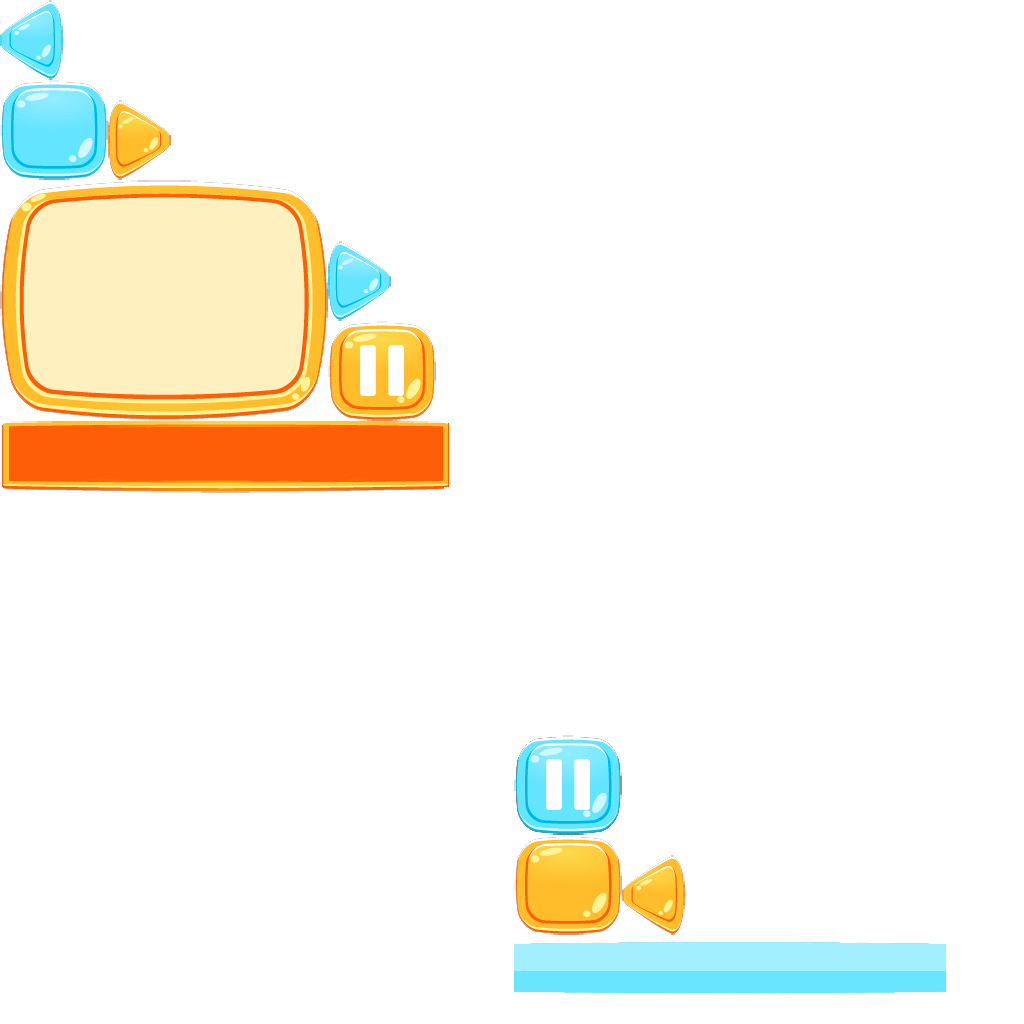
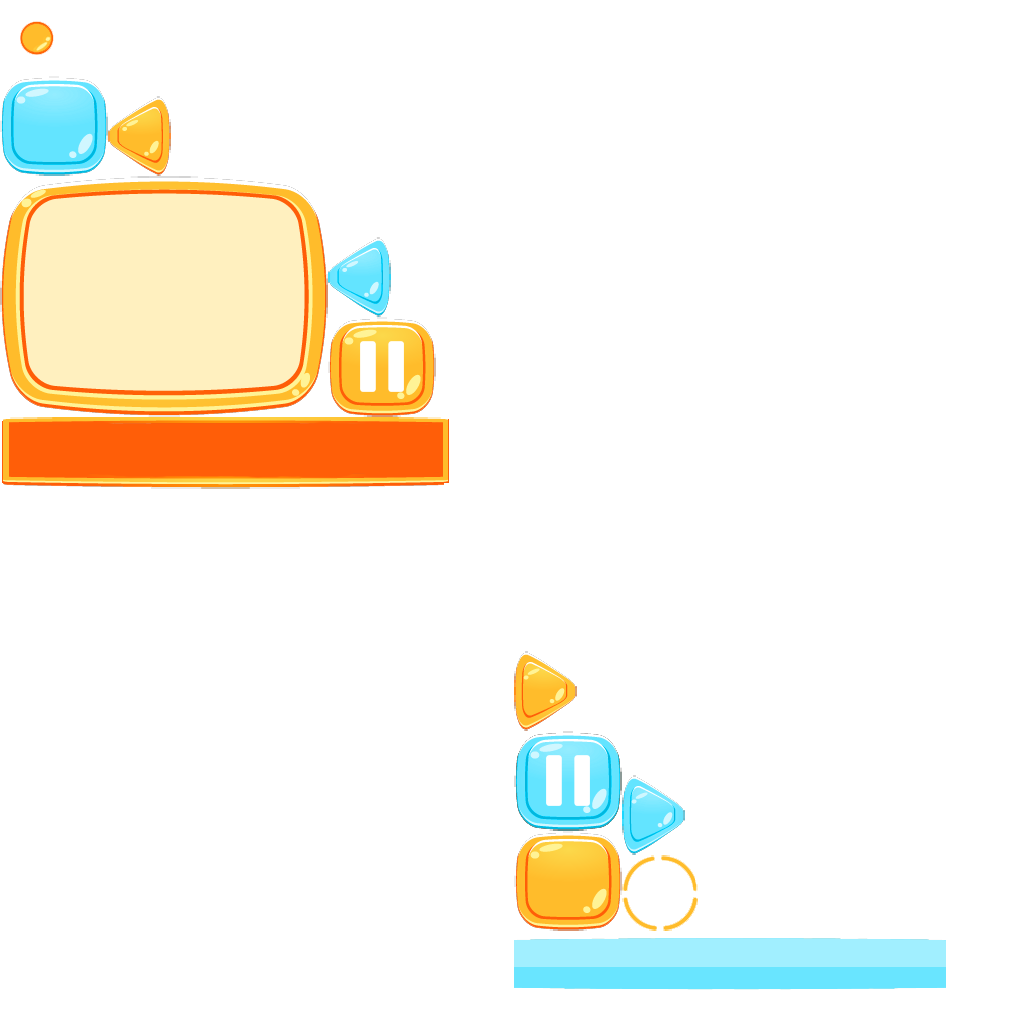
New skin

Changed region(s): [[0.5, 0.625, 0.9375, 0.9688], [0.0, 0.0, 0.4375, 0.3438], [0.0, 0.3125, 0.4375, 0.5]]

diff --git a/core/src/com/mygdx/forkliftaone/screens/game/GameScreen.java b/core/src/com/mygdx/forkliftaone/screens/game/GameScreen.java
@@ -393,23 +393,24 @@ ProcessInventoryImproved pi = new ProcessInventoryImproved();
         // The size of the fuel icon can be changed here
 //        table.add(bar).width(Gdx.graphics.getWidth() / 8).height(10f);
 
-        table.add().height(height/3);// Adding an empty column (Empty cell)
-        table.add(bar).top().width(width/5);
-        table.add(menuButton).width(height/6).height(height/6).padRight(20f).right().top();
+        table.add().height(height/3 - 50);// Adding an empty column (Empty cell)
+        table.add(bar).top().width(width/5 - 50);
+        table.add(menuButton).width(height/6).height(height/6).right().top();
         table.row();
         table.add().width(width/5).height(height/3);
-        table.add().width((width/5) * 3f).height(height/3);
-        table.add().width(width/5).padRight(20f).height(height/3);
+        table.add().width((width/5) * 3f  - 50).height(height/3);
+        table.add().width(width/5).height(height/3);
         table.row();
 
         // Touchpad test
         // Left touchpad
-        skin = new Skin(Gdx.files.internal("neon/neon-ui.json"));
+//        skin = new Skin(Gdx.files.internal("neon/neon-ui.json"));
+        skin = new Skin(Gdx.files.internal("custom/CustomSkinUI.json"));
         final Touchpad touchpad = new Touchpad(1f, skin);
 
         // Setting the minimal size of the knob (Размер джойстика)
-        touchpad.getStyle().knob.setMinWidth(height/10f);
-        touchpad.getStyle().knob.setMinHeight(height/10f);
+        touchpad.getStyle().knob.setMinWidth(height/6f);
+        touchpad.getStyle().knob.setMinHeight(height/6f);
 
 
         // Logic for mooving and playing the engine sound
@@ -477,7 +478,7 @@ ProcessInventoryImproved pi = new ProcessInventoryImproved();
 //        table.add(rightTouchpad);
         table.row();
         // Debug enabled
-//        table.debug();
+        table.debug();
 
 //        // Testing Fuel icon
 //        bar = new ProgressBar(0, 100, 0.01f, false, skin);
@@ -486,7 +487,7 @@ ProcessInventoryImproved pi = new ProcessInventoryImproved();
 //        table.add(bar).width(Gdx.graphics.getWidth() / 8).height(10f);
 
         Table main = new Table();
-        main.add(table).padTop(20f).padRight(20f).padLeft(20f).fill();
+        main.add(table).padTop(25f).padRight(25f).padLeft(25f).padBottom(25f).fill();
         main.row();
 //        main.debug();
         main.setFillParent(true);

diff --git a/core/src/com/mygdx/forkliftaone/config/GameConfig.java b/core/src/com/mygdx/forkliftaone/config/GameConfig.java
@@ -7,8 +7,8 @@ public class GameConfig {
     private GameConfig() {
     }
 
-    public static final float WIDTH = 800f; // pixels
-    public static final float HEIGHT = 480f; // pixels
+    public static final float WIDTH = 1200f; // pixels
+    public static final float HEIGHT = 580f; // pixels
 //    public static final float WIDTH = (Gdx.graphics.getWidth());
 //    public static final float HEIGHT = (Gdx.graphics.getHeight());
 
